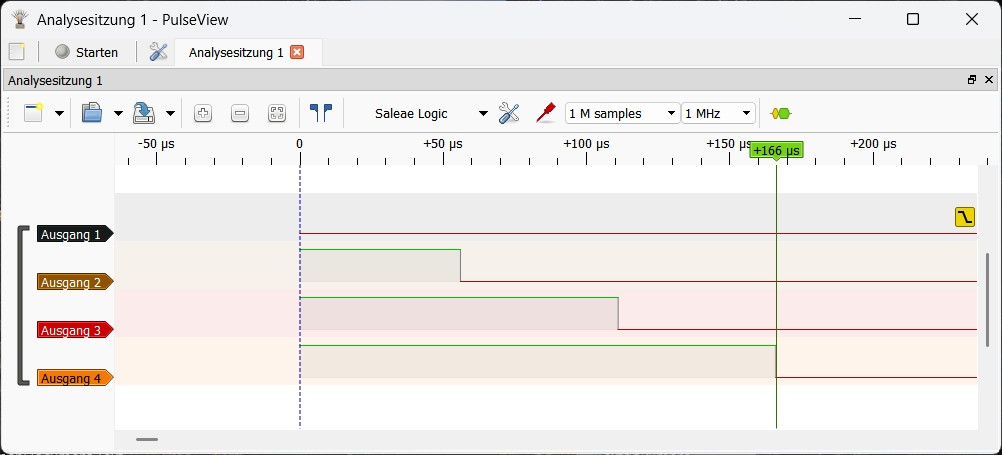
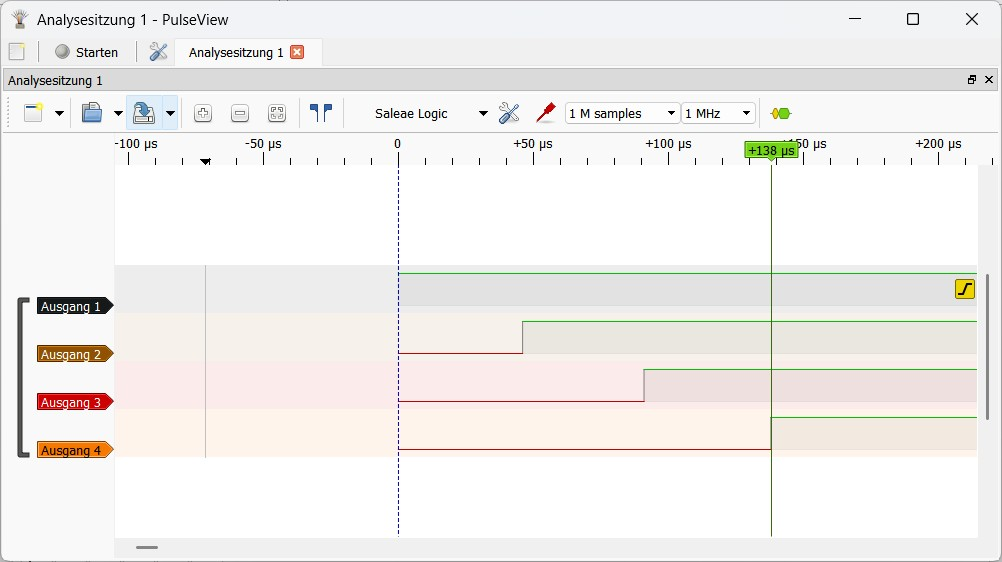
Doku: richtiges Bild (Ausgaenge auf high, 138 us), Abfallen 166 us
Claude-Session: https://claude.ai/code/session_01U7fekmJg6yFkdWhWqNYD27

diff --git a/docs/Userscripts.md b/docs/Userscripts.md
@@ -26,7 +26,7 @@ Zwischen den beiden laufen nur 4 Bit in jede Richtung, und keiner kann dem ander
 Ein paar Hinweise aus der Praxis:
 
 - **Nicht auf feste Zeiten bauen.** Mit eingeschalteter Anzeige ist der 2090 langsamer, und auch der ESP hat nebenbei zu tun (Webserver). Lieber warten, bis sich etwas ändert, als eine bestimmte Zeit abzuzählen. Feste Zeiten braucht nur die [LED-Matrix](LED-Matrix.md), die deshalb in der Firmware eingebaut ist.
-- **Ausgänge schalten nacheinander.** Ein `DOT` des 2090 schaltet die vier Ausgänge nicht gleichzeitig, sondern nacheinander: Nach der ersten erkennbaren Änderung dauert es noch etwa 166 µs, bis der Wert vollständig anliegt (Bild im Abschnitt [Wie die Übertragung abläuft](LED-Matrix.md#wie-die-übertragung-abläuft)). Wer genau dann liest, bekommt einen Zwischenwert. Wo es darauf ankommt: nach einer Änderung kurz warten (1 ms) und noch einmal lesen.
+- **Ausgänge schalten nacheinander.** Ein `DOT` des 2090 schaltet die vier Ausgänge nicht gleichzeitig, sondern nacheinander: Nach der ersten erkennbaren Änderung dauert es noch etwa 138 µs (auf high) bzw. 166 µs (auf low), bis der Wert vollständig anliegt (Bild im Abschnitt [Wie die Übertragung abläuft](LED-Matrix.md#wie-die-übertragung-abläuft)). Wer genau dann liest, bekommt einen Zwischenwert. Wo es darauf ankommt: nach einer Änderung kurz warten (1 ms) und noch einmal lesen.
 - **Ruhezustand 0.** Wenn alle Ausgänge auf 0 stehen, „sagt niemand etwas“. Wer einen Wert gesendet hat, setzt am Ende wieder 0.
 - **Matrix und Userscript nicht gleichzeitig an denselben Leitungen.** Die LED-Matrix benutzt Eingang 1 (Anfrage) und alle vier Ausgänge. Wer die Matrix eingeschaltet hat („LED on“), sollte kein Userscript laufen lassen, das ebenfalls darauf hört oder Eingang 1 setzt.
 

diff --git a/docs/LED-Matrix.md b/docs/LED-Matrix.md
@@ -35,7 +35,7 @@ Der 2090 hat keinen Takt, den der ESP sehen könnte. Die beiden verabreden desha
 1. **Anfrage (REQ):** Der ESP setzt Eingang 1 des 2090 auf 1. Ein ACK erkennt er erst, nachdem die Ausgänge des 2090 einmal auf 0 standen.
 2. **Antwort (ACK):** Der 2090 wartet in einer Schleife auf REQ (`DIN`, `ANDI`, `BRZ`) und legt dann mit `DOT` eine Befehlsnummer 1–15 auf seine Ausgänge. Der ESP erkennt sie, liest nach 0,7 ms zur Kontrolle noch einmal und nimmt REQ zurück.
 
-   Die Kontrolle ist nötig, weil der 2090 langsam ist: Ein `DOT` schaltet die vier Ausgänge nicht gleichzeitig, sondern nacheinander. Sobald der ESP die erste Änderung erkennt (z. B. Ausgang 1 ist high), dauert es noch einmal etwa 166 µs, bis das Signal an allen vier Ausgängen vollständig ist – im Bild fällt Ausgang 4 erst bei +166 µs. Würde der ESP den ersten Wert nehmen, den er sieht, bekäme er oft einen Zwischenwert. Nach 0,7 ms steht der Wert sicher.
+   Die Kontrolle ist nötig, weil der 2090 langsam ist: Ein `DOT` schaltet die vier Ausgänge nicht gleichzeitig, sondern nacheinander. Sobald der ESP die erste Änderung erkennt (z. B. Ausgang 1 ist high), dauert es noch einmal etwa 138 µs, bis alle vier Ausgänge high sind – im Bild kommt Ausgang 4 erst bei +138 µs. Auf low fallen die Ausgänge noch langsamer, in etwa 166 µs. Würde der ESP den ersten Wert nehmen, den er sieht, bekäme er oft einen Zwischenwert. Nach 0,7 ms steht der Wert sicher.
 
    ![Der 2090 schaltet seine Ausgänge nacheinander (Logic-Analyzer)](bilder/2090-ausgaenge-nacheinander.jpg)
 3. **Daten:** Danach gibt der 2090 in jedem Befehlsschritt ein Nibble mit `DOT` aus, im Blockmodus 16, im Zeichenmodus ein oder zwei. Der ESP liest jeweils in der Mitte des Schritts. Die genauen Zeiten stehen bei den beiden Modi.
